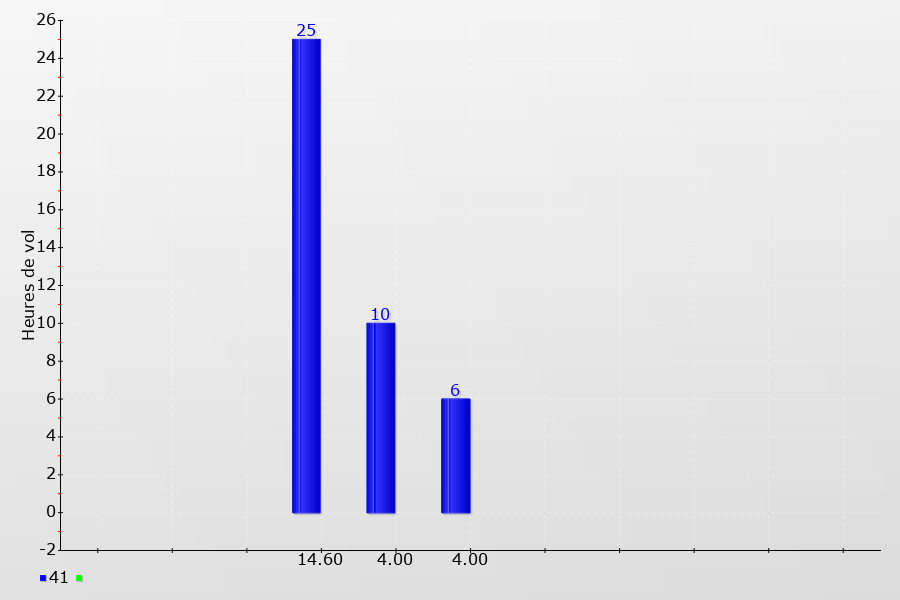
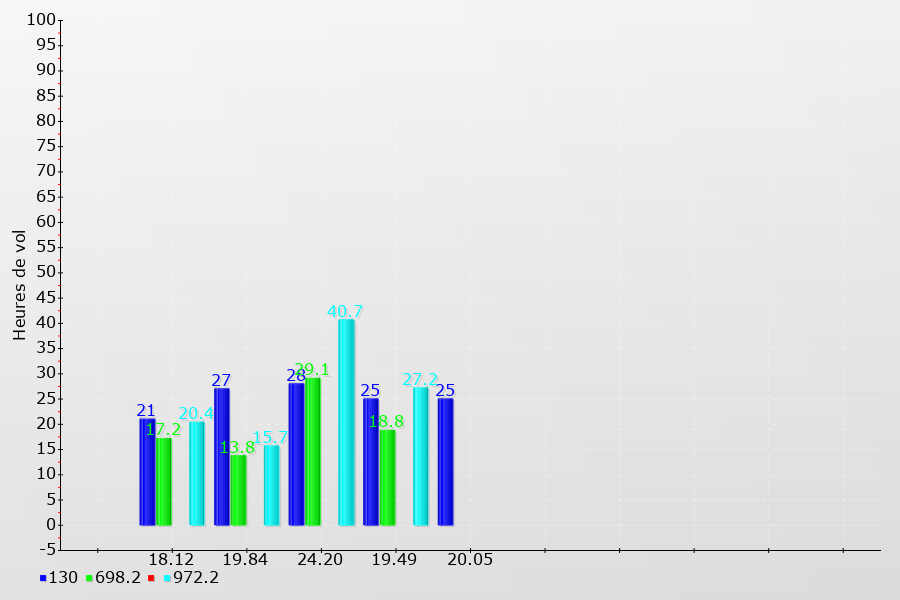
Correction tests playwright

diff --git a/playwright/tests/panoramix-recursive-authorizations.spec.js b/playwright/tests/panoramix-recursive-authorizations.spec.js
@@ -44,6 +44,7 @@ const SKIP_PATTERNS = [
     /\/csv_/,                 // CSV download endpoints (csv_month, csv_machine, etc.)
     /\/print\b/,
     /\/imprimer/,
+    /\/email_vd\//,             // GET action that sends an email — side-effect, not a display page
     /\/phpinfo/,
     /\/migration/,
     /\/backup/,

diff --git a/application/views/bs_menu.php b/application/views/bs_menu.php
@@ -102,7 +102,7 @@ if ($CI->dx_auth->is_logged_in()) {
                           <li><a class="dropdown-item" href="<?= $public_vd_url ?>" target="_blank" rel="noopener noreferrer"><i class="fas fa-globe text-info"></i> <?= translation("gvv_menu_public_page") ?></a></li>
                           <?php endif; ?>
                           <li><a class="dropdown-item" href="<?= controller_url("vols_decouverte/select_by_id") ?>"><i class="fas fa-search text-primary"></i> <?= translation("gvv_menu_vols_decouverte_select") ?></a></li>
-                          <?php if (has_briefing_admin_role()) : ?>
+                          <?php if (has_briefing_admin_role() && $current_section_id === 2) : ?>
                           <li><a class="dropdown-item" href="<?= controller_url("forms_admin/submissions/briefing_passager_ulm") ?>"><i class="fas fa-clipboard-check text-success"></i> <?= translation("briefing_passager_menu") ?></a></li>
                           <?php endif; ?>
                         <?php endif; ?>

diff --git a/application/views/bs_sub_dashboard.php b/application/views/bs_sub_dashboard.php
@@ -428,7 +428,7 @@ $meta = isset($section_meta[$dashboard_section]) ? $section_meta[$dashboard_sect
         </div>
         <?php endif; ?>
 
-        <?php if (has_briefing_admin_role()) : ?>
+        <?php if (has_briefing_admin_role() && $current_section_id === 2) : ?>
         <div class="col-6 col-md-4 col-lg-3 col-xl-2">
             <div class="sub-card text-center">
                 <i class="fas fa-clipboard-check text-success"></i>